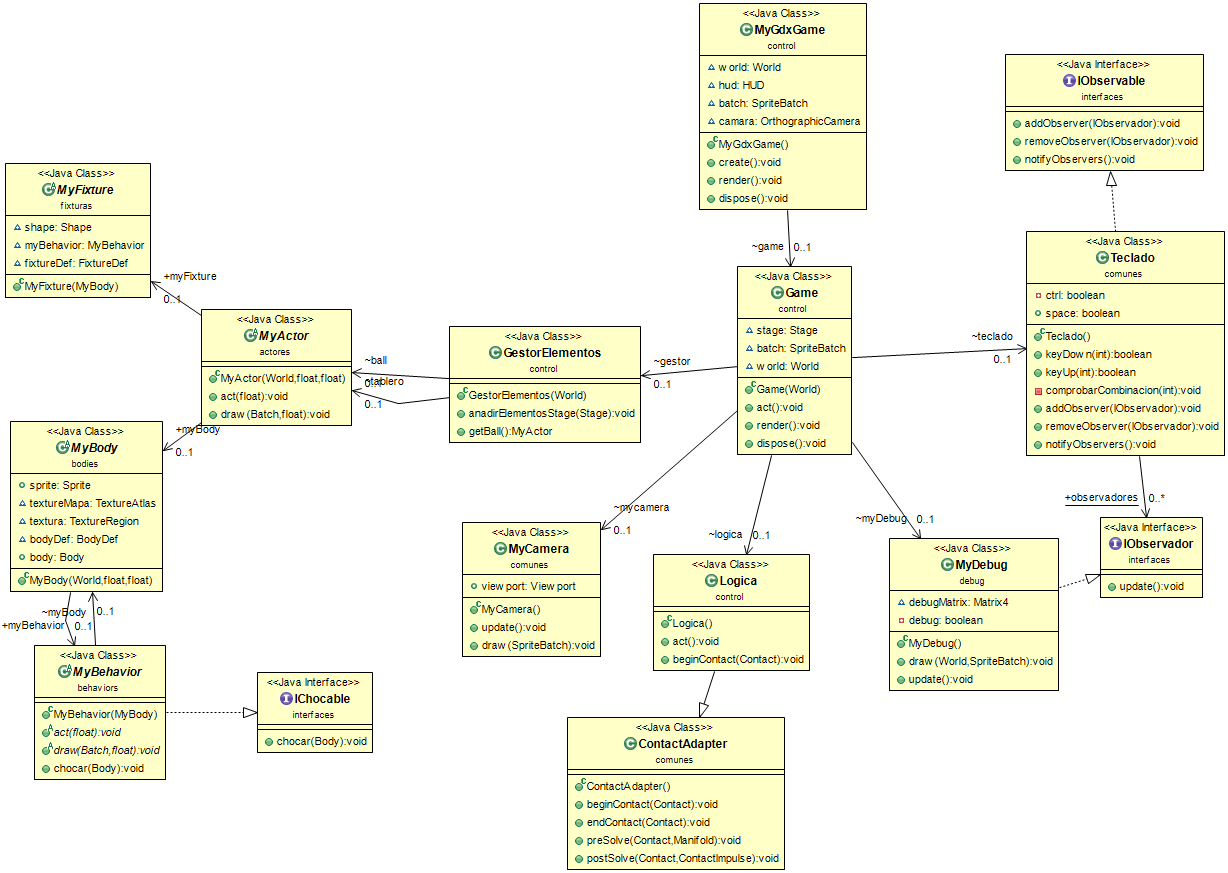
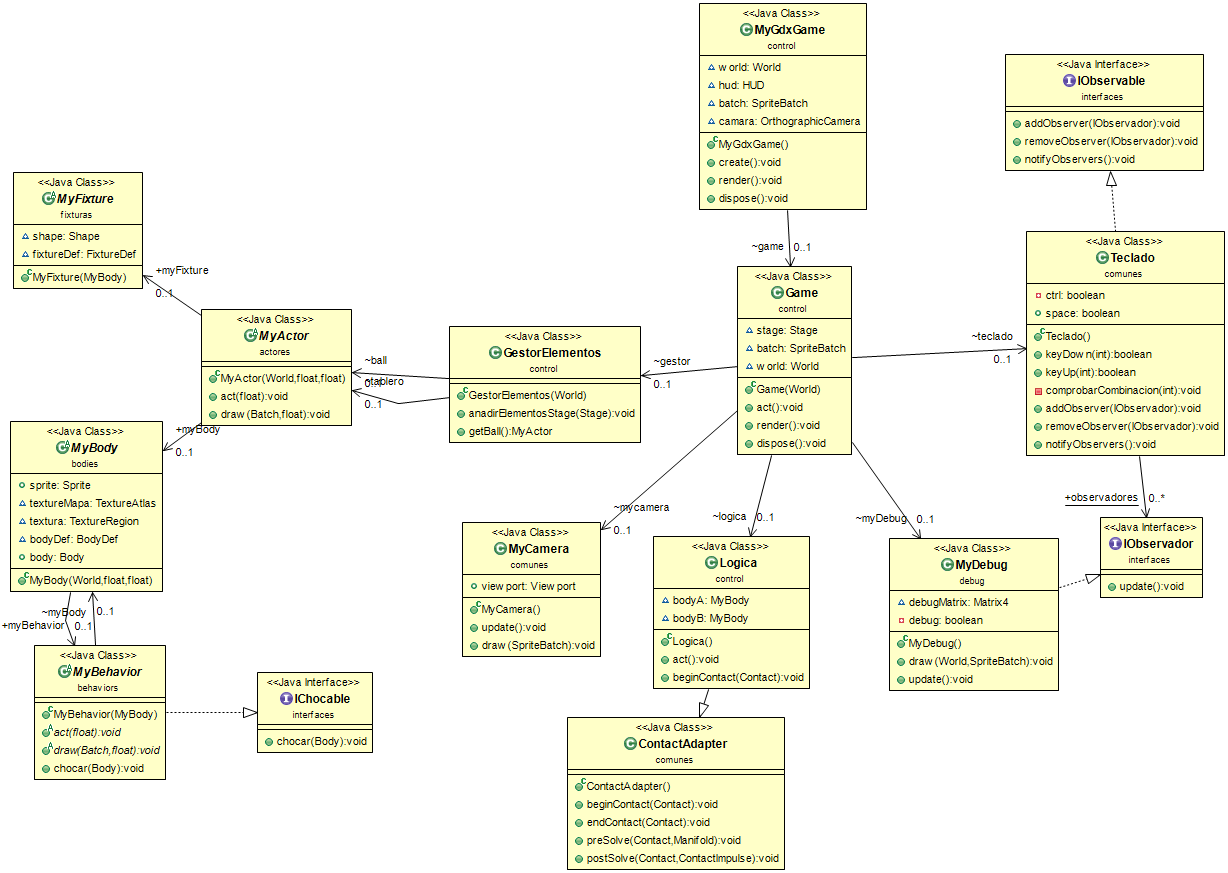
mini cambio

Changed region(s): [[0.5261, 0.5876, 0.6808, 0.8041], [0.0, 0.1856, 0.1857, 0.3402]]

diff --git a/core/src/control/Logica.java b/core/src/control/Logica.java
@@ -11,23 +11,29 @@ import comunes.ContactAdapter;
 import fixturas.MyFixture;
 
 public class Logica extends ContactAdapter {
-
+	MyBody bodyA, bodyB;
 
 	public Logica() {
-		
+
 	}
 
 	public void act() {
-		if (Gdx.input.isKeyJustPressed(Input.Keys.LEFT))
-			System.out.println("izquierda");
-		if (Gdx.input.isKeyJustPressed(Input.Keys.RIGHT))
-			System.out.println("derecha");
 
 	}
+
 	@Override
 	public void beginContact(Contact contact) {
 		super.beginContact(contact);
-		((MyBody)(contact.getFixtureA().getBody().getUserData())).myBehavior.chocar(null);
-		
+		bodyA = (MyBody) (contact.getFixtureA().getBody().getUserData());
+		bodyB = (MyBody) (contact.getFixtureB().getBody().getUserData());
+
+		if (bodyA.getClass().getSimpleName().contains("ball")) {
+			bodyB.myBehavior.chocar(bodyA.body);
+		} else {
+			bodyA.myBehavior.chocar(bodyB.body);
+
+		}
+
 	}
+
 }
